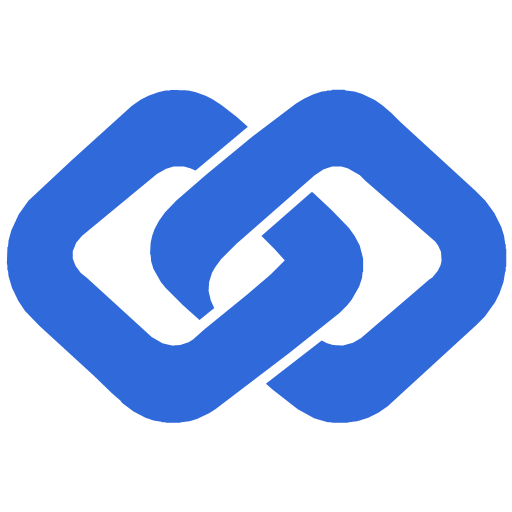
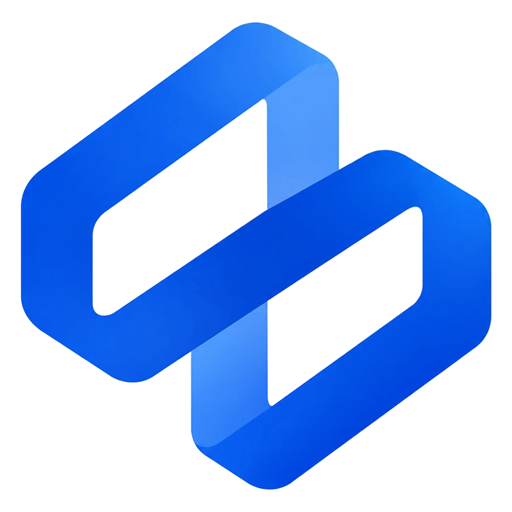
Replace brand mark with the new Erun symbol
Swap the interlocking-links mark for the new symbol in the header and
every favicon. The source image is kept in public/brand alongside a
transparent full-size PNG and a 160px header copy. The old SVG mark and
SVG favicon are removed, and icon URLs move to ?v=3 so browsers refetch.

diff --git a/src/styles.css b/src/styles.css
@@ -170,7 +170,7 @@ body { margin: 0; }
 .wordmark { font-size: 44px; line-height: 1; font-weight: 800; text-decoration: none; color: var(--foreground); }
 .wordmark span { color: var(--primary); }
 .brand-mark { display: inline-flex; align-items: center; }
-.brand-mark img { display: block; height: 40px; width: auto; }
+.brand-mark img { display: block; height: 44px; width: auto; }
 .desktop-nav { display: flex; gap: 24px; margin-left: 80px; }
 .desktop-nav button { font-size: 12px; font-weight: 550; }
 .desktop-nav .nav-active { color: var(--foreground); }
@@ -231,7 +231,7 @@ h1 { font-size: 88px; line-height: 1.12; font-weight: 550; margin: 30px 0 24px; 
 @media (max-width: 1050px) { h1 { font-size: 72px; }.section-heading h2, .about-content h2, .contact-layout h2 { font-size: 46px; }.expertise-grid { gap: 18px; }.service-heading h3 { font-size: 16px; }.service-heading { gap: 7px; }.service-index { display: none; }.contact-layout { gap: 45px; }.hero-bottom-note { display: none; } }
 @media (max-width: 700px) {
   html { scroll-snap-type: y proximity; }
-  .site-header { height: 80px; padding: 0 7%; }.wordmark { font-size: 36px; }.brand-mark img { height: 32px; }.header-contact { margin-left: auto; margin-right: 20px; font-size: 10px; gap: 12px; }.mobile-menu { display: inline-flex; }.desktop-nav { display: none; }.desktop-nav.open { display: flex; position: absolute; top: 80px; left: 0; right: 0; margin: 0; background: var(--background); padding: 20px 7%; border-bottom: 1px solid var(--border); justify-content: space-between; gap: 0; }
+  .site-header { height: 80px; padding: 0 7%; }.wordmark { font-size: 36px; }.brand-mark img { height: 36px; }.header-contact { margin-left: auto; margin-right: 20px; font-size: 10px; gap: 12px; }.mobile-menu { display: inline-flex; }.desktop-nav { display: none; }.desktop-nav.open { display: flex; position: absolute; top: 80px; left: 0; right: 0; margin: 0; background: var(--background); padding: 20px 7%; border-bottom: 1px solid var(--border); justify-content: space-between; gap: 0; }
   .snap-section { padding: 115px 8% 90px; min-height: 100svh; }.hero-section { height: 96svh; min-height: 760px; padding: 114px 8% 330px; justify-content: flex-start; }.hero-content { width: 100%; }h1 { font-size: 51px; line-height: 1.15; margin: 22px 0 18px; }.eyebrow { font-size: 8px; }.hero-description { font-size: 12px; margin-bottom: 18px; }.explore-button { font-size: 10px; height: 33px; gap: 22px; }.clarity-scene { width: 100%; height: 340px; top: auto; bottom: 38px; right: -7%; }.hero-grid { inset: 360px 0 70px; background-size: 48px 48px; }.scene-caption { right: 14%; bottom: 14%; font-size: 6px; }.hero-bottom { left: 8%; right: 8%; bottom: 21px; padding-top: 12px; }.scroll-cue { font-size: 7px; }.section-counter { font-size: 8px; }.section-progress { right: 1%; gap: 9px; }.progress-dot { width: 15px; }.progress-dot.current > span:first-child { outline-offset: 3px; }.progress-label { display: none !important; }
   .section-heading h2, .about-content h2, .contact-layout h2 { font-size: 38px; margin: 20px 0 15px; }.section-heading p { font-size: 11px; line-height: 1.7; }.expertise-grid { grid-template-columns: 1fr; gap: 35px; margin-top: 28px; }.service-visual { height: 210px; }.service-heading { margin-top: 16px; }.service-heading h3 { font-size: 20px; }.service-index { display: block; }.expertise-item > p { font-size: 11px; }.expertise-section { justify-content: flex-start; }.section-bottom { left: 8%; right: 8%; bottom: 25px; font-size: 6px; gap: 12px; }.section-bottom button { font-size: 9px; }.approach-stages { margin: 30px 0 10px; gap: 0; }.approach-stage { height: 220px; padding: 0 3px; }.stage-art { width: 80px; height: 90px; padding: 9px; gap: 5px; margin-bottom: 20px; }.stage-number { margin-left: 8px; font-size: 8px; }.stage-title { font-size: 16px; }.stage-copy { font-size: 9px; line-height: 1.6; max-width: 95px; }.approach-stages::before { top: 94px; }.approach-summary { font-size: 11px; line-height: 1.8; max-width: 280px; align-self: center; }
   .about-content { grid-template-columns: 1fr; gap: 25px; }.about-content p { font-size: 13px; line-height: 1.8; margin: 22px 0; }.architecture-art { height: 260px; }.architecture-frame { width: 115px; height: 160px; top: 40px; }.frame-1 { top: 31px; }.frame-2 { top: 22px; }.frame-3 { top: 13px; }.frame-4 { top: 49px; }.frame-5 { top: 58px; }.architecture-baseline { bottom: 30px; }.architecture-art > span { bottom: 12px; font-size: 6px; }

diff --git a/src/routes/index.tsx b/src/routes/index.tsx
@@ -57,7 +57,7 @@ function Index() {
     catch { setContactStatus("Direct delivery is not connected yet. Please keep your enquiry here until contact details are available."); }
   }
   return <div className="erun-site">
-    <header className="site-header"><a href="#home" className="wordmark brand-mark" aria-label="Erun home"><img src="/brand/erun-mark.svg" alt="Erun" width={912} height={619} /></a><nav className={menuOpen ? "desktop-nav open" : "desktop-nav"} aria-label="Main navigation">{labels.slice(1, 4).map((label, i) => <Button variant="nav" key={label} className={active === i + 1 ? "nav-active" : ""} onClick={() => goTo(i + 1)}>{label}</Button>)}</nav><Button variant="editorial" className="header-contact" onClick={() => goTo(4)}>Let’s talk <ArrowUpRight /></Button><Button variant="ghost" size="icon" className="mobile-menu" aria-label={menuOpen ? "Close navigation" : "Open navigation"} onClick={() => setMenuOpen(!menuOpen)}>{menuOpen ? <X /> : <Menu />}</Button></header>
+    <header className="site-header"><a href="#home" className="wordmark brand-mark" aria-label="Erun home"><img src="/brand/erun-mark-160.png" alt="Erun Group" width={160} height={159} /></a><nav className={menuOpen ? "desktop-nav open" : "desktop-nav"} aria-label="Main navigation">{labels.slice(1, 4).map((label, i) => <Button variant="nav" key={label} className={active === i + 1 ? "nav-active" : ""} onClick={() => goTo(i + 1)}>{label}</Button>)}</nav><Button variant="editorial" className="header-contact" onClick={() => goTo(4)}>Let’s talk <ArrowUpRight /></Button><Button variant="ghost" size="icon" className="mobile-menu" aria-label={menuOpen ? "Close navigation" : "Open navigation"} onClick={() => setMenuOpen(!menuOpen)}>{menuOpen ? <X /> : <Menu />}</Button></header>
     <aside className="section-progress" aria-label="Section navigation">{sections.map((section, i) => <Button key={section} variant="ghost" size="icon" aria-label={`Go to ${labels[i]}`} aria-current={active === i ? "location" : undefined} onClick={() => goTo(i)} className={active === i ? "progress-dot current" : "progress-dot"}><span /><span className="progress-label">{labels[i]}</span></Button>)}</aside>
     <main>
       <section id="home" className="hero-section snap-section">

diff --git a/src/routes/__root.tsx b/src/routes/__root.tsx
@@ -93,10 +93,9 @@ export const Route = createRootRouteWithContext<{ queryClient: QueryClient }>()(
         rel: "stylesheet",
         href: appCss,
       },
-      { rel: "icon", href: "/favicon.ico?v=2", sizes: "48x48" },
-      { rel: "icon", href: "/favicon.svg?v=2", type: "image/svg+xml" },
-      { rel: "icon", href: "/icon-192.png?v=2", type: "image/png", sizes: "192x192" },
-      { rel: "apple-touch-icon", href: "/apple-touch-icon.png?v=2" },
+      { rel: "icon", href: "/favicon.ico?v=3", sizes: "48x48" },
+      { rel: "icon", href: "/icon-192.png?v=3", type: "image/png", sizes: "192x192" },
+      { rel: "apple-touch-icon", href: "/apple-touch-icon.png?v=3" },
     ],
   }),
   shellComponent: RootShell,
